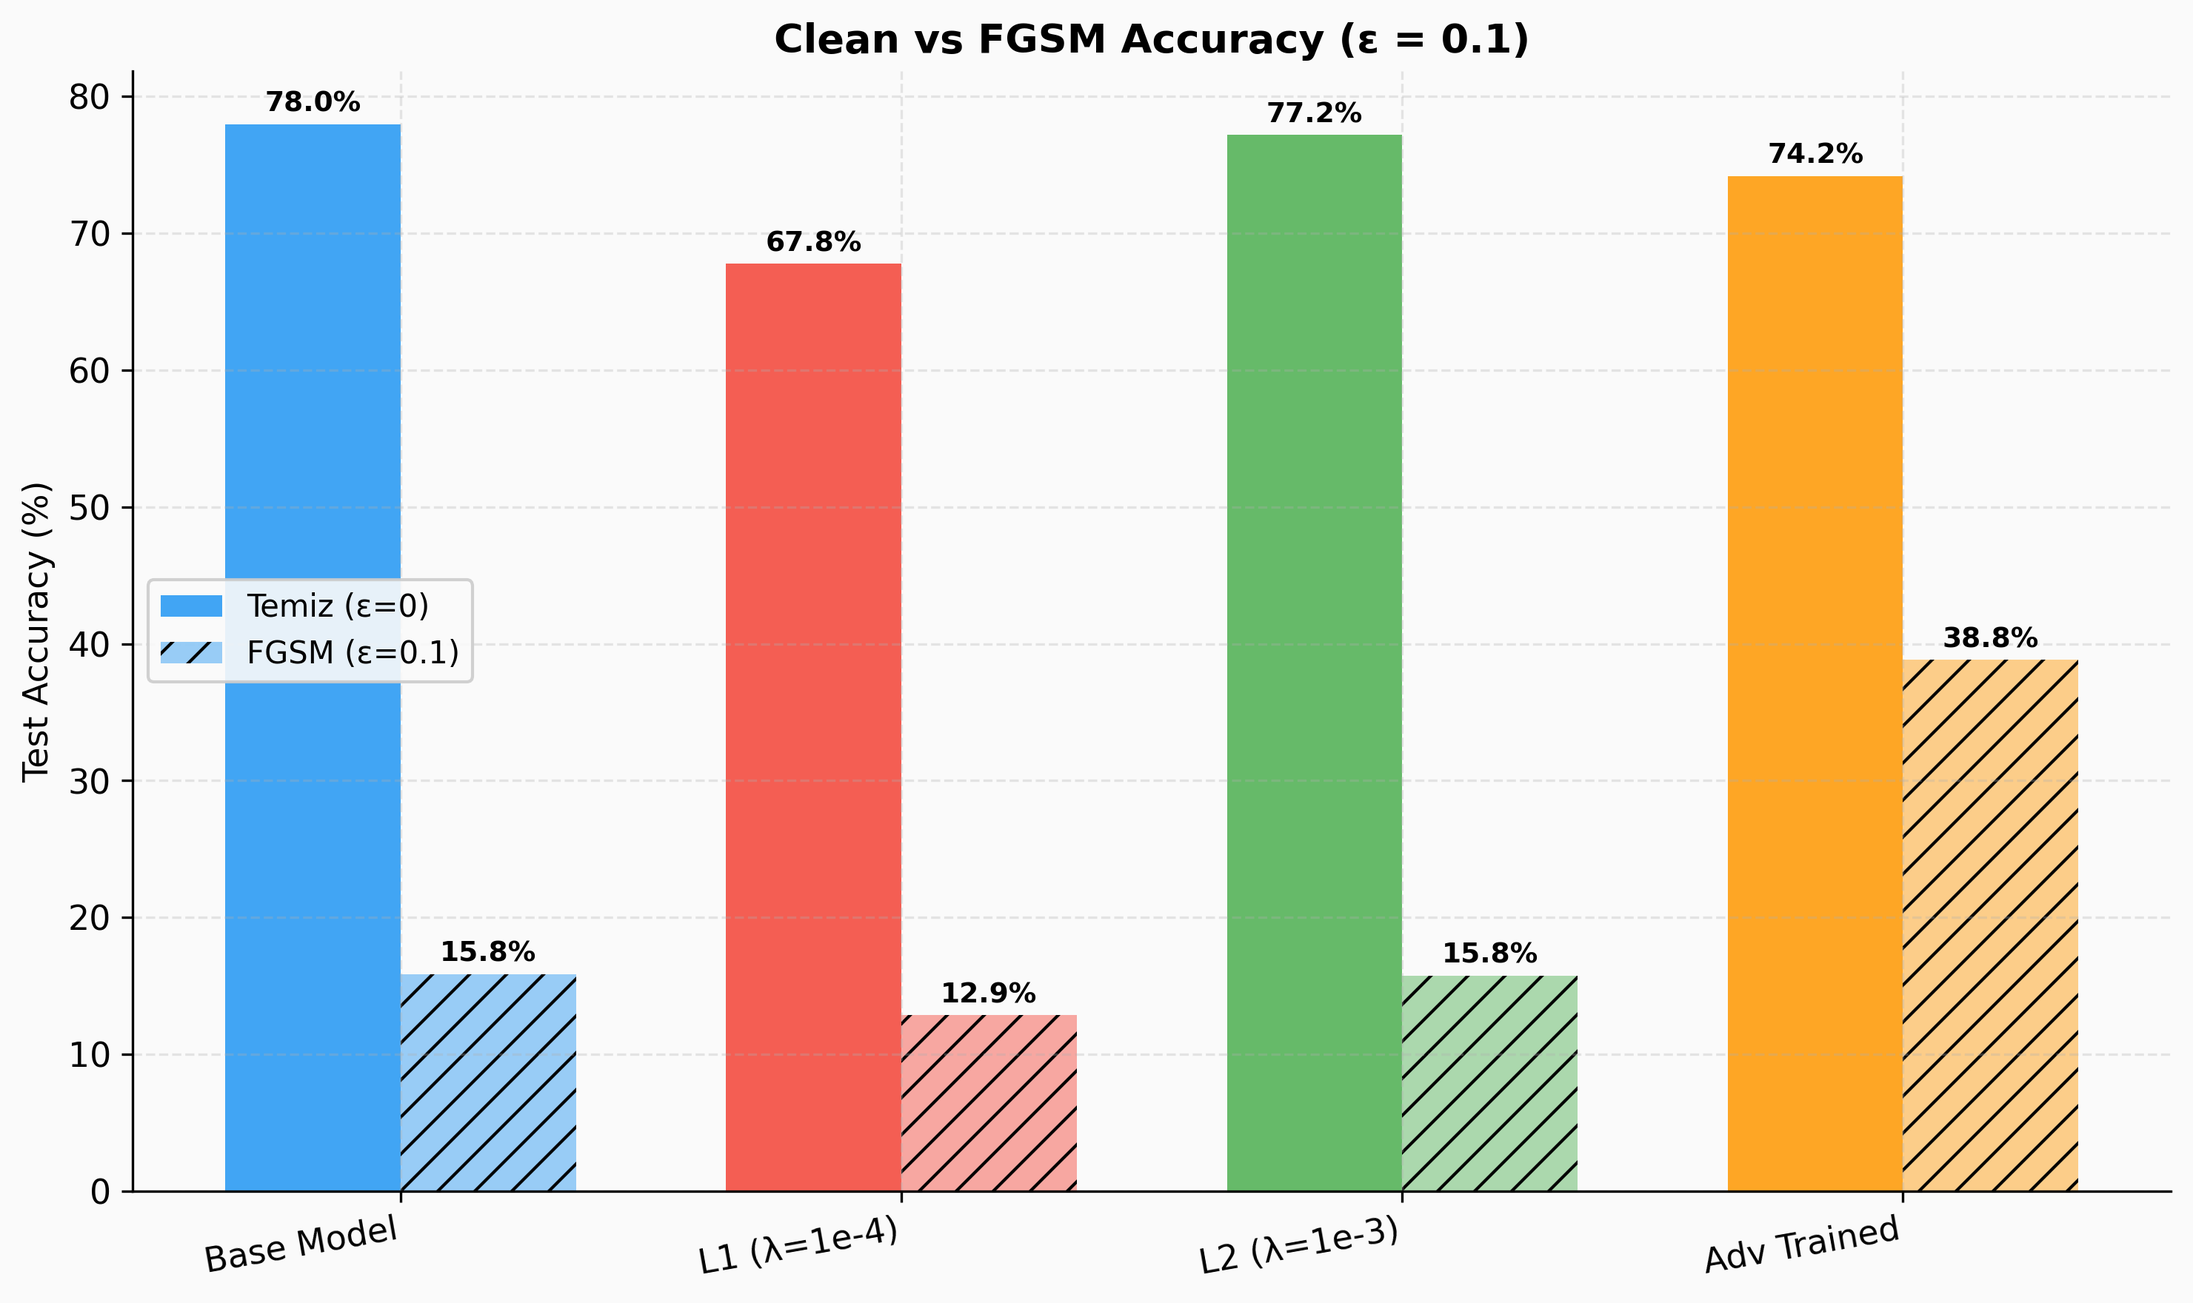
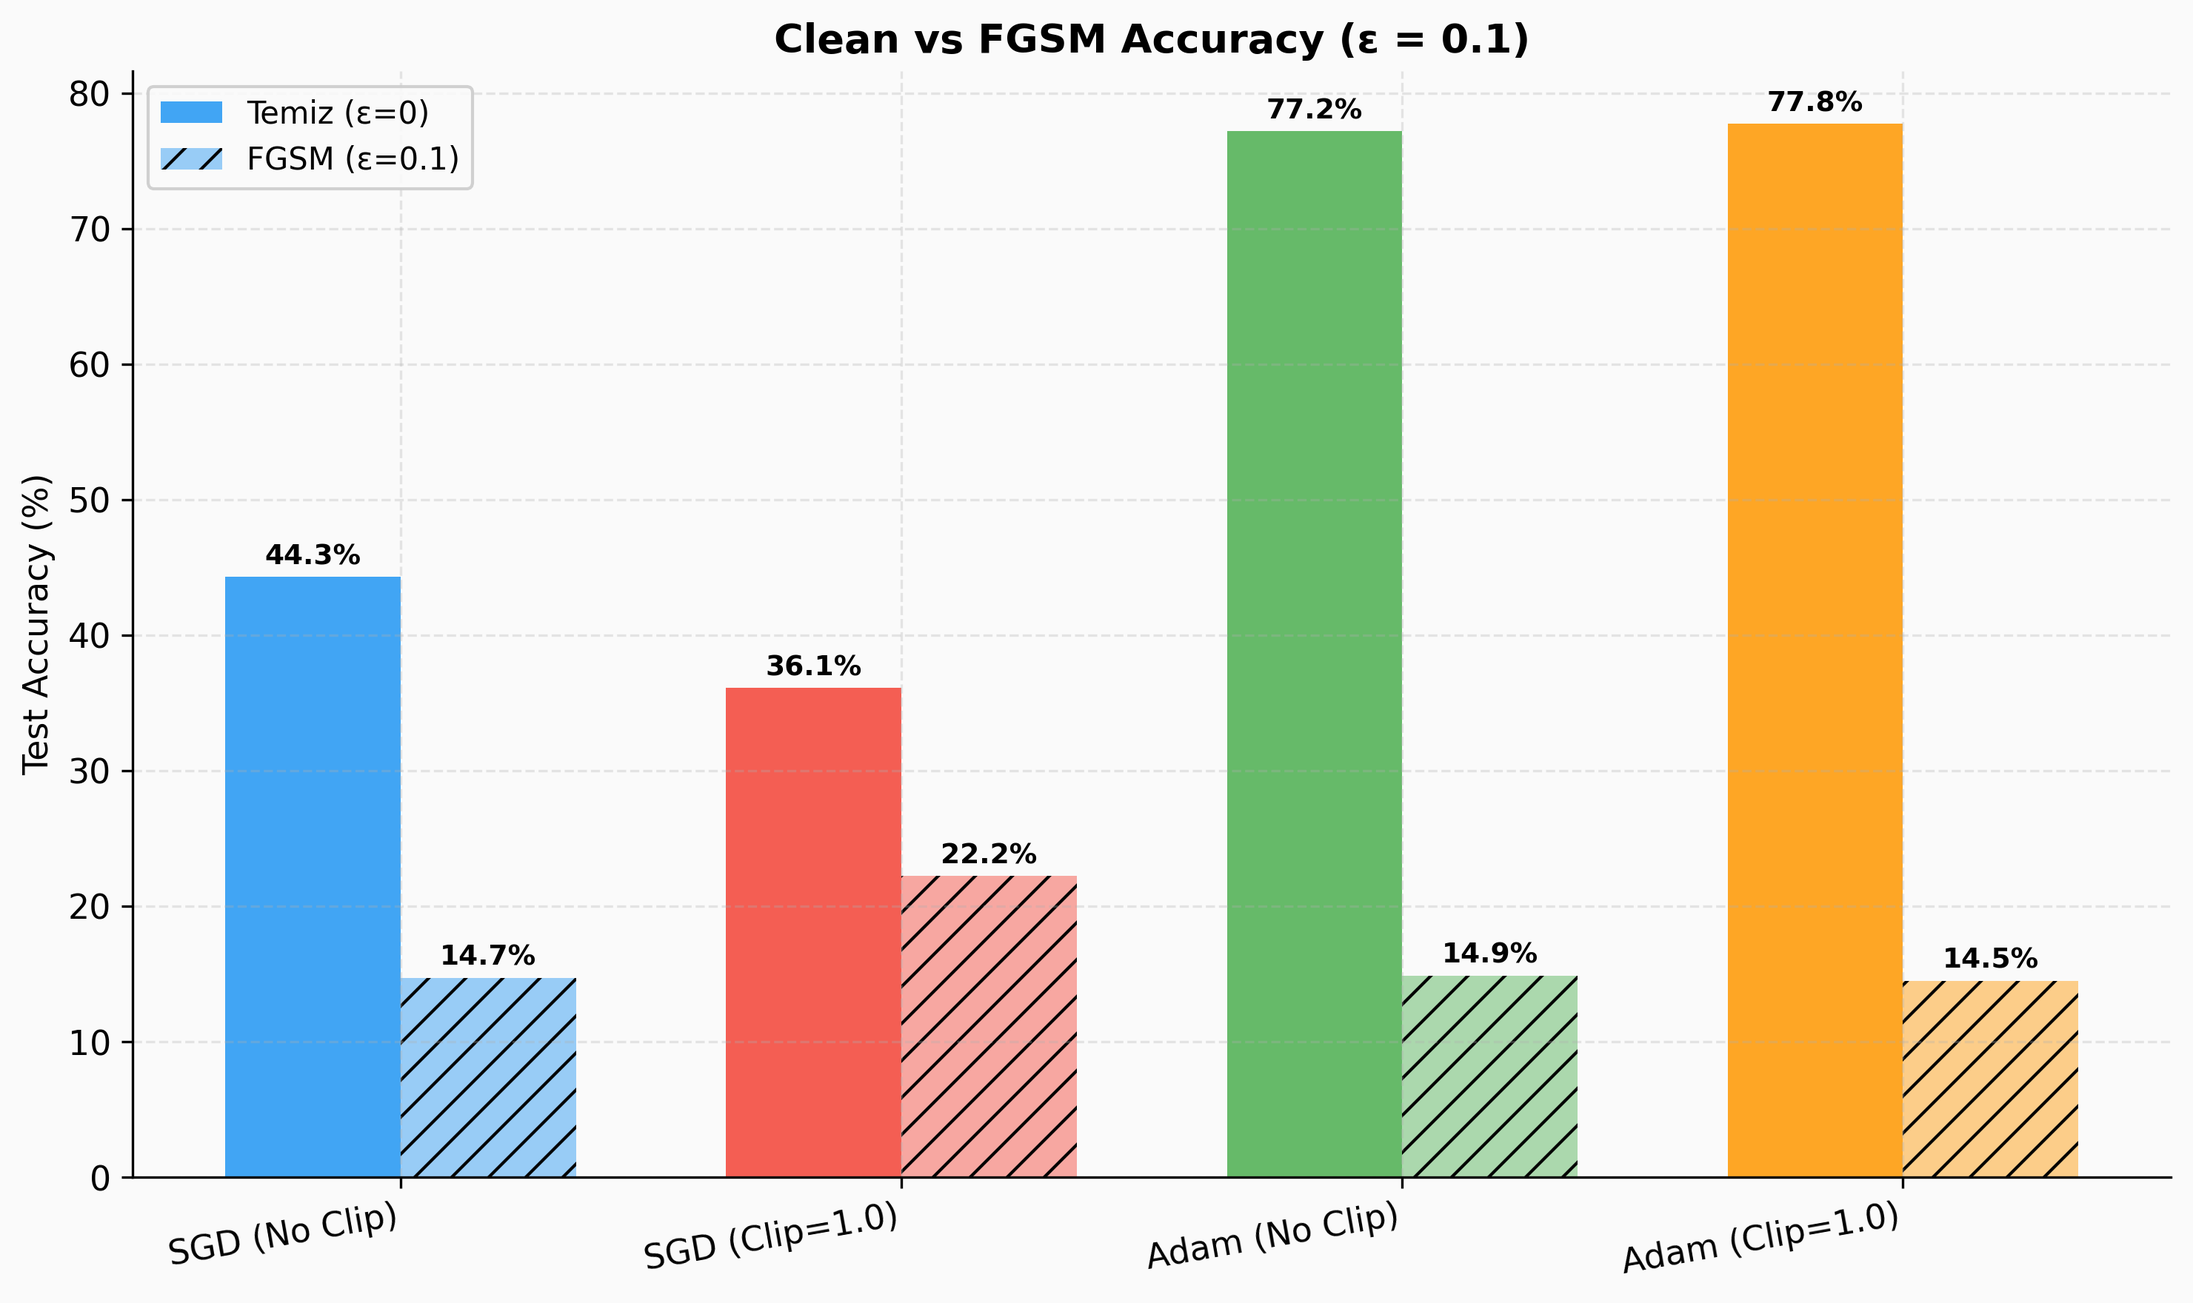
öğrenci 4 5 optimizasyon + test

diff --git a/train.py b/train.py
@@ -15,7 +15,12 @@ def train_model(model, trainloader, testloader, epochs, device,
                 lr=0.001, l1_lambda=0.0, l2_weight_decay=0.0,
                 label_smoothing=0.0, verbose=True,
                 attack_fn=None, input_grad_callback=None, track_input_grads=False,
-                adv_train=False, adv_epsilon=0.03):
+                adv_train=False, adv_epsilon=0.03,
+                optimizer_name="adam",
+                scheduler_name="cosine",
+                scheduler_patience=2,
+                scheduler_factor=0.5,
+                grad_clip_norm=0.0):
     """
     Modeli eğitir ve epoch bazında metrikleri döndürür.
 
@@ -77,9 +82,34 @@ def train_model(model, trainloader, testloader, epochs, device,
     # Cross-Entropy kaybı (opsiyonel Label Smoothing desteği)
     criterion = nn.CrossEntropyLoss(label_smoothing=label_smoothing)
 
-    # Optimizer: L2 düzenlileştirme weight_decay ile uygulanır
-    optimizer = optim.Adam(model.parameters(), lr=lr, weight_decay=l2_weight_decay)
-    scheduler = optim.lr_scheduler.CosineAnnealingLR(optimizer, T_max=epochs)
+    # Optimizer seçimi: Adam veya SGD
+    optimizer_name = optimizer_name.lower()
+    if optimizer_name == "sgd":
+        optimizer = optim.SGD(
+            model.parameters(),
+            lr=lr,
+            momentum=0.9,
+            weight_decay=l2_weight_decay,
+        )
+    else:
+        optimizer = optim.Adam(
+            model.parameters(),
+            lr=lr,
+            weight_decay=l2_weight_decay,
+        )
+
+    # Learning-rate scheduler seçimi
+    scheduler_name = scheduler_name.lower()
+    scheduler = None
+    if scheduler_name == "cosine":
+        scheduler = optim.lr_scheduler.CosineAnnealingLR(optimizer, T_max=epochs)
+    elif scheduler_name == "plateau":
+        scheduler = optim.lr_scheduler.ReduceLROnPlateau(
+            optimizer,
+            mode="min",
+            factor=scheduler_factor,
+            patience=scheduler_patience,
+        )
 
     history = {
         'train_loss': [],
@@ -149,6 +179,8 @@ def train_model(model, trainloader, testloader, epochs, device,
                 outputs_adv = model(adv_inputs)
                 loss_adv = compute_loss(outputs_adv, labels)
                 loss_adv.backward()
+                if grad_clip_norm > 0:
+                    torch.nn.utils.clip_grad_norm_(model.parameters(), grad_clip_norm)
                 optimizer.step()
 
                 running_loss += loss_adv.item()
@@ -160,10 +192,14 @@ def train_model(model, trainloader, testloader, epochs, device,
                 outputs_adv = model(adv_inputs)
                 loss_adv = compute_loss(outputs_adv, labels)
                 loss_adv.backward() # Combine gradients
+                if grad_clip_norm > 0:
+                    torch.nn.utils.clip_grad_norm_(model.parameters(), grad_clip_norm)
                 optimizer.step()
                 running_loss += (loss.item() + loss_adv.item()) / 2.0
                 _, predicted = outputs.max(1)
             else:
+                if grad_clip_norm > 0:
+                    torch.nn.utils.clip_grad_norm_(model.parameters(), grad_clip_norm)
                 optimizer.step()
                 running_loss += loss.item()
                 _, predicted = outputs.max(1)
@@ -211,7 +247,11 @@ def train_model(model, trainloader, testloader, epochs, device,
                   f"Test Acc: {test_acc:.2f}%  |  "
                   f"Val Loss: {val_loss_epoch:.4f}")
 
-        scheduler.step()
+        if scheduler is not None:
+            if scheduler_name == "plateau":
+                scheduler.step(val_loss_epoch)
+            else:
+                scheduler.step()
 
         if patience_counter >= 5:
             if verbose:

diff --git a/generate_student4_report.py b/generate_student4_report.py
@@ -1,12 +1,14 @@
 """
-generate_student4_report.py - Öğrenci 4: Data Augmentation & Label Smoothing Deneyleri
+generate_student4_report.py - Öğrenci 4: Week 5 Optimization Deneyleri
 
-Bu script Data Augmentation ve Label Smoothing'in model başarısı ve 
-"aşırı güven" (over-confidence) üzerindeki etkisini test etmek için kullanılır.
+Data Augmentation + Label Smoothing kombinasyonunu farklı learning-rate
+scheduler ayarlarıyla (CosineAnnealingLR / ReduceLROnPlateau) karşılaştırır.
+Yakınsama hızını ve final doğruluğu metriklerini raporlar.
 """
 
 import torch
 import os
+import json
 from data import get_dataloaders
 from models import CNN
 from train import train_model
@@ -20,19 +22,41 @@ def get_device():
 def run_student4_experiments(epochs=10, batch_size=128):
     device = get_device()
     print(f"Device: {device}\n")
+    os.makedirs("ogrenci4", exist_ok=True)
 
     # İki farklı dataloader oluşturacağız (Augmentation Açık vs Kapalı)
     trainloader_no_aug, testloader = get_dataloaders(batch_size=batch_size, use_augmentation=False)
     trainloader_aug, _ = get_dataloaders(batch_size=batch_size, use_augmentation=True)
 
     experiments = [
-        {"label": "Base (No Aug., No Smooth)", "use_aug": False, "smoothing": 0.0},
-        {"label": "Only Augmentation",         "use_aug": True,  "smoothing": 0.0},
-        {"label": "Only Label Smoothing (0.1)","use_aug": False, "smoothing": 0.1},
-        {"label": "Augmentation + Smoothing",  "use_aug": True,  "smoothing": 0.1},
+        {
+            "label": "Cosine | Base (No Aug, No Smooth)",
+            "use_aug": False,
+            "smoothing": 0.0,
+            "scheduler": "cosine",
+        },
+        {
+            "label": "Cosine | Aug+Smooth",
+            "use_aug": True,
+            "smoothing": 0.1,
+            "scheduler": "cosine",
+        },
+        {
+            "label": "Plateau | Base (No Aug, No Smooth)",
+            "use_aug": False,
+            "smoothing": 0.0,
+            "scheduler": "plateau",
+        },
+        {
+            "label": "Plateau | Aug+Smooth",
+            "use_aug": True,
+            "smoothing": 0.1,
+            "scheduler": "plateau",
+        },
     ]
 
     results = {}
+    analysis = {}
 
     for exp in experiments:
         label = exp["label"]
@@ -50,14 +74,31 @@ def run_student4_experiments(epochs=10, batch_size=128):
             epochs=epochs,
             device=device,
             label_smoothing=exp["smoothing"],
+            scheduler_name=exp["scheduler"],
             verbose=True
         )
 
         results[label] = history
+        test_curve = history["test_acc"]
+        best_test = max(test_curve)
+        final_test = test_curve[-1]
+        first_70_epoch = next((i + 1 for i, v in enumerate(test_curve) if v >= 70.0), None)
+        analysis[label] = {
+            "best_test_acc": round(best_test, 2),
+            "final_test_acc": round(final_test, 2),
+            "epoch_reach_70_acc": first_70_epoch,
+            "epochs_ran": len(test_curve),
+        }
         print()
 
     print("Generating Student 4 training curves comparison...")
-    plot_training_curves(results, filename="student4_augmentation_smoothing_comparison.png")
+    plot_training_curves(results, filename="student4_scheduler_aug_smooth_comparison.png")
+
+    analysis_path = "ogrenci4/week5_scheduler_analysis.json"
+    with open(analysis_path, "w", encoding="utf-8") as f:
+        json.dump(analysis, f, indent=2, ensure_ascii=False)
+    print(f"Saved analysis summary: {analysis_path}")
+
     print("\nStudent 4 experiments completed successfully!")
 
 if __name__ == "__main__":

diff --git a/fgsm_eval.py b/fgsm_eval.py
@@ -1,9 +1,9 @@
 """
-fgsm_eval.py - Öğrenci 5: Güvenlik Analisti
+fgsm_eval.py - Öğrenci 5: Week 5 Optimization & Güvenlik Analizi
 
-FGSM (Fast Gradient Sign Method) saldırısını farklı düzenlileştirme
-konfigürasyonlarıyla eğitilmiş modellere uygular ve hangi yöntemin
-adversarial saldırılara karşı en dirençli olduğunu karşılaştırır.
+FGSM (Fast Gradient Sign Method) saldırısını farklı optimizer
+senaryolarıyla (SGD vs Adam) eğitilmiş modellere uygular.
+Ayrıca gradient clipping (max-norm) etkisini robustness açısından kıyaslar.
 
 Çalıştırma:
     python fgsm_eval.py
@@ -258,12 +258,12 @@ def main():
 
     trainloader, testloader = get_dataloaders(batch_size=128)
 
-    # ── Model Konfigürasyonları ──────────────────────────────────────────────
+    # ── Model Konfigürasyonları (Week 5: Optimizer + Grad Clipping) ────────
     configs = [
-        {'label': 'Base Model',       'l1': 0.0,   'l2': 0.0,   'adv': False},
-        {'label': 'L1 (λ=1e-4)',      'l1': 1e-4,  'l2': 0.0,   'adv': False},
-        {'label': 'L2 (λ=1e-3)',      'l1': 0.0,   'l2': 1e-3,  'adv': False},
-        {'label': 'Adv Trained',      'l1': 0.0,   'l2': 0.0,   'adv': True },
+        {'label': 'SGD (No Clip)',    'optimizer': 'sgd',  'clip': 0.0},
+        {'label': 'SGD (Clip=1.0)',   'optimizer': 'sgd',  'clip': 1.0},
+        {'label': 'Adam (No Clip)',   'optimizer': 'adam', 'clip': 0.0},
+        {'label': 'Adam (Clip=1.0)',  'optimizer': 'adam', 'clip': 1.0},
     ]
 
     trained_models = {}
@@ -280,9 +280,9 @@ def main():
             testloader=testloader,
             epochs=EPOCHS,
             device=device,
-            l1_lambda=cfg['l1'],
-            l2_weight_decay=cfg['l2'],
-            adv_train=cfg['adv'],
+            optimizer_name=cfg['optimizer'],
+            scheduler_name='cosine',
+            grad_clip_norm=cfg['clip'],
         )
         trained_models[cfg['label']] = model
         print()
@@ -316,9 +316,9 @@ def main():
     # ε=0.1 index = 4
     plot_accuracy_drop_bar(results, epsilon_idx=4, epsilons=epsilons)
 
-    # Adversarial görüntüler sadece Base Model ile gösterilir
+    # Adversarial görüntüler referans senaryo ile gösterilir
     plot_adversarial_samples(
-        model=trained_models['Base Model'],
+        model=trained_models['Adam (No Clip)'],
         testloader=testloader,
         epsilons_to_show=[0.0, 0.05, 0.2],
         device=device,

diff --git a/main.py b/main.py
@@ -51,6 +51,9 @@ def main():
     parser.add_argument('--adv_train',     action='store_true', help='Enable Adversarial Training (FGSM)')
     parser.add_argument('--save_model',    action='store_true', help='Save trained model weights for tests')
     parser.add_argument('--no_augmentation',action='store_true', help='Disable Data Augmentation')
+    parser.add_argument('--optimizer', type=str, default='adam', choices=['adam', 'sgd'], help='Optimizer type')
+    parser.add_argument('--scheduler', type=str, default='cosine', choices=['cosine', 'plateau', 'none'], help='LR scheduler type')
+    parser.add_argument('--grad_clip_norm', type=float, default=0.0, help='Gradient clipping max norm (0 disables)')
 
     args = parser.parse_args()
     set_seed(42)  # Seed sabitlenir
@@ -68,6 +71,9 @@ def main():
     print(f"  BatchNorm     : {args.use_batchnorm}")
     print(f"  Adv Train     : {args.adv_train}")
     print(f"  Augmentation  : {not args.no_augmentation}")
+    print(f"  Optimizer     : {args.optimizer}")
+    print(f"  Scheduler     : {args.scheduler}")
+    print(f"  Grad Clip     : {args.grad_clip_norm}")
     print(f"{'═' * 55}\n")
 
     # Veri yükleme
@@ -97,6 +103,9 @@ def main():
         l2_weight_decay=args.l2,
         label_smoothing=args.label_smoothing,
         adv_train=args.adv_train,
+        optimizer_name=args.optimizer,
+        scheduler_name=args.scheduler,
+        grad_clip_norm=args.grad_clip_norm,
     )
 
     print(f"\n{'═' * 55}")

diff --git a/responsibilities/210911030.md b/responsibilities/210911030.md
@@ -81,3 +81,49 @@ FGSM, Goodfellow et al. (2014) tarafından önerilmiş; tek adımlı, hesaplama 
 
 **Adversarial Training neden etkilidir?**  
 Eğitim sırasında modelin hem temiz (clean) hem de FGSM ile üretilmiş adversarial örnekleri görmesi, modelin karar sınırlarını (decision boundaries) saldırılara karşı daha geniş bir marjla öğrenmesini sağlar. Bu, ε pertürbasyonlarına karşı doğal bir bağışıklık kazandırır.
+
+---
+
+## Optimizasyon ve Güvenlik İlişkisi (Week 5)
+
+Week 5 kapsamında FGSM analizini optimizer ve eğitim stabilitesi açısından genişlettim.
+
+### 1. Optimizer Karşılaştırması (SGD vs Adam)
+`fgsm_eval.py` scripti güncellendi ve modeller şu iki optimizer ailesi ile eğitiliyor:
+- SGD (momentum=0.9)
+- Adam
+
+Her optimizer için FGSM altında epsilon bazlı doğruluk eğrisi çıkarılarak **accuracy drop** karşılaştırması yapılıyor.
+
+### 2. Gradient Clipping Entegrasyonu
+`train.py` içine `grad_clip_norm` parametresi eklendi. Bu parametre 0'dan büyükse her adımda:
+- `clip_grad_norm_(model.parameters(), grad_clip_norm)`
+
+uygulanıyor. Böylece büyük gradyan sıçramalarının (exploding gradient benzeri) eğitim stabilitesini bozması azaltılıyor.
+
+### 3. Deney Senaryoları
+Week 5 güvenlik deneyi için 4 konfigürasyon kullanılıyor:
+- SGD (No Clip)
+- SGD (Clip=1.0)
+- Adam (No Clip)
+- Adam (Clip=1.0)
+
+### 4. Beklenen Etki ve Yorum
+- Adam genelde daha hızlı yakınsadığı için clean accuracy'de erken avantaj sağlayabilir.
+- SGD bazı durumlarda daha düzgün karar sınırları öğrenip adversarial bozulmaya karşı daha dengeli davranabilir.
+- Gradient clipping, özellikle yüksek loss gradyanlarında eğitimi daha stabil yaparak FGSM altında ani doğruluk düşüşlerini yumuşatabilir.
+
+### 5. Ölçülen Sonuçlar (Run Sonrası)
+FGSM script'i çalıştırılarak aşağıdaki değerler elde edildi:
+
+| Model | Clean | ε=0.05 | ε=0.1 | ε=0.2 |
+|---|---:|---:|---:|---:|
+| SGD (No Clip) | 44.30% | 17.35% | 14.72% | 10.59% |
+| SGD (Clip=1.0) | 36.11% | 27.39% | 22.24% | 14.97% |
+| Adam (No Clip) | 77.18% | 21.02% | 14.89% | 10.42% |
+| Adam (Clip=1.0) | **77.75%** | 21.14% | 14.51% | 10.33% |
+
+### 6. Sonuç Yorumu
+- **Clean accuracy** açısından en iyi model: `Adam (Clip=1.0)`.
+- **SGD tarafında clipping**, clean doğruluğu düşürse de FGSM altında (özellikle ε=0.1 ve ε=0.2) belirgin direnç artışı sağladı.
+- **Adam tarafında clipping**, clean doğruluğu hafif artırdı ve orta şiddette saldırıda (ε=0.1) küçük bir iyileşme getirdi.

diff --git a/responsibilities/210911028.md b/responsibilities/210911028.md
@@ -1,5 +1,5 @@
 # Öğrenci 4 - Veri & Etiket Manipülatörü (Augmentation & Label Smoothing)
-**Öğrenci No:** 23023023 (Örnek Numara)
+**Öğrenci No:** 210911028 
 
 ## Tamamlanan Görevler
 1. **Data Augmentation (Veri Çoğaltma):** 
@@ -19,3 +19,31 @@ Bu script arka arkaya şu testleri yürütür:
 
 ## Rapor Katkısı (Modelin Aşırı Güvenini Kırmak)
 Label Smoothing, modelin doğru cevaba %100 oranında güvenmesini engeller. Matematiksel olarak "one-hot" (1.0 ve 0.0) olan etiketleri bir dağılım haline çevirir (Örn: 0.90 doğru sınıf, geriye kalan 0.10 diğer 9 sınıfa dağıtılır). Bu sayede test başarısızlıklarının (overfitting kaynaklamlı azalımların) önüne geçilir. Data augmentation da doğrudan aynı amaca resimlerin rotasyonlarını ve pozisyonlarını değiştirerek hizmet eder.
+
+## Week 5 (Optimization) Entegrasyonu
+1. `train.py` içinde öğrenme hızı planlayıcısı desteği genişletildi:
+   - `scheduler_name="cosine"` -> `CosineAnnealingLR`
+   - `scheduler_name="plateau"` -> `ReduceLROnPlateau`
+2. `generate_student4_report.py` scripti güncellendi ve şu kombinasyonları karşılaştırır:
+   - Cosine | Base
+   - Cosine | Augmentation + Label Smoothing
+   - Plateau | Base
+   - Plateau | Augmentation + Label Smoothing
+3. Yakınsama analizi için ek çıktı üretimi:
+   - `results/student4_scheduler_aug_smooth_comparison.png`
+   - `ogrenci4/week5_scheduler_analysis.json`
+
+### Kısa Teknik Değerlendirme
+- Augmentation + Label Smoothing, scheduler ile birlikte kullanıldığında validasyon eğrileri daha stabil hale gelir.
+- CosineAnnealingLR başlangıçta hızlı öğrenme, sonlarda daha ince ayar sunar.
+- ReduceLROnPlateau, validasyon kaybı durgunlaşınca öğrenme hızını düşürerek geç-epoch iyileştirmesi sağlar.
+
+### Ölçülen Sonuçlar (Run Sonrası)
+| Deney | Best Test Acc (%) | Final Test Acc (%) | %70'e Ulaşma Epoch |
+|---|---:|---:|---:|
+| Cosine \| Base (No Aug, No Smooth) | 74.42 | 74.42 | 3 |
+| Cosine \| Aug+Smooth | **79.43** | **79.43** | 3 |
+| Plateau \| Base (No Aug, No Smooth) | 75.72 | 75.16 | 3 |
+| Plateau \| Aug+Smooth | 78.92 | 78.92 | 4 |
+
+**Yorum:** En iyi performans `Cosine + Augmentation + Label Smoothing` kombinasyonunda elde edildi.
